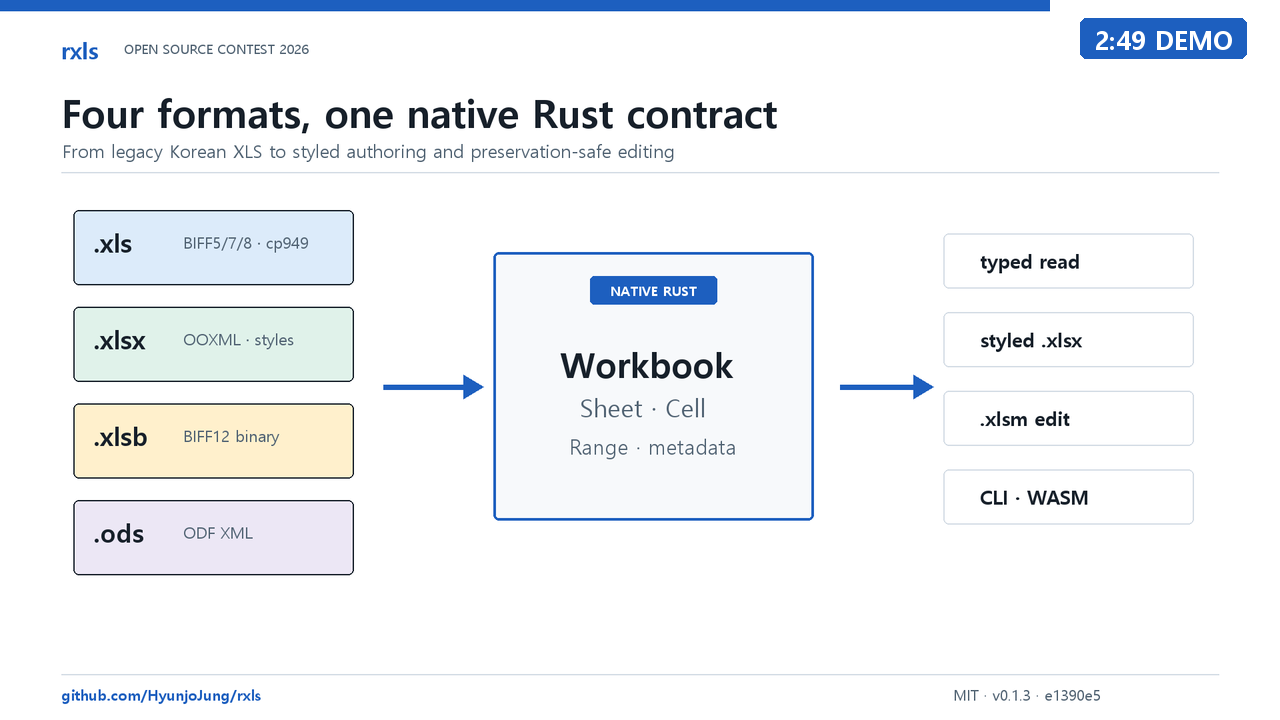
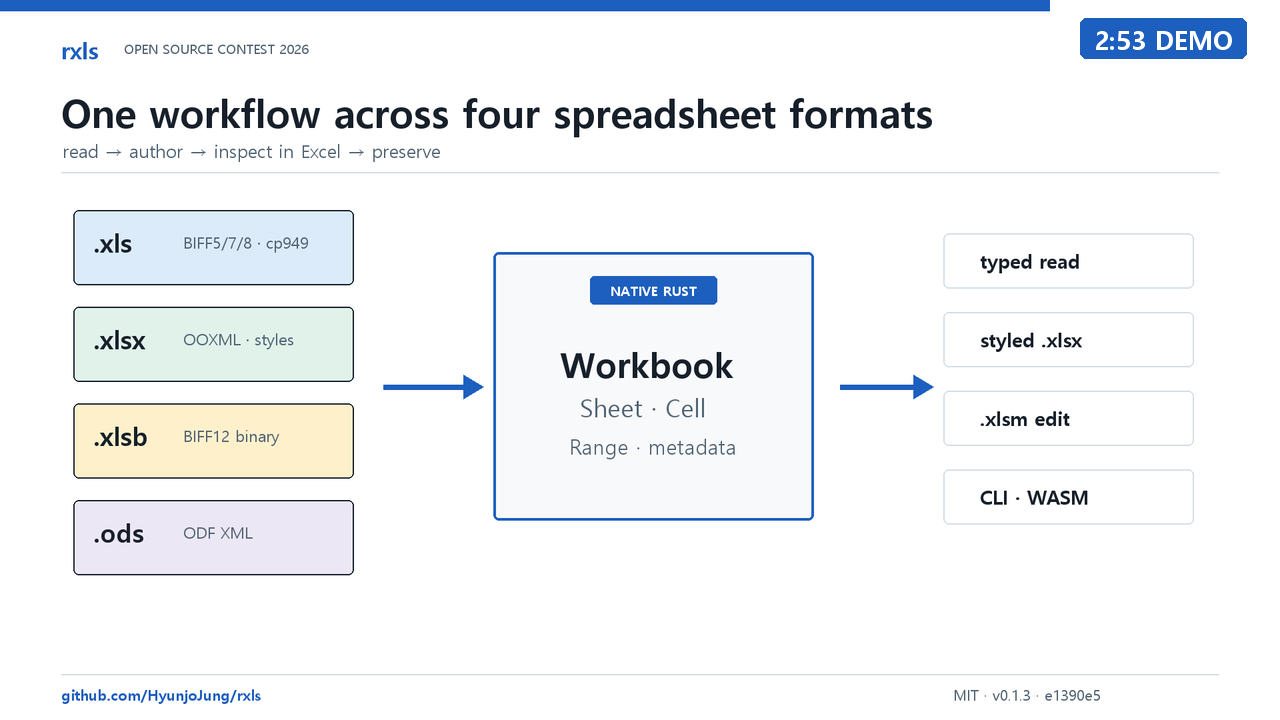
Publish bilingual contest demos

Changed region(s): [[0.0312, 0.1222, 0.75, 0.2444], [0.875, 0.0306, 0.9062, 0.0611]]

diff --git a/README.ko.md b/README.ko.md
@@ -52,17 +52,25 @@ revision에 연결된 [52개 asset 릴리스 증거 묶음](https://github.com/H
 
 ## 데모와 아키텍처
 
-[![rxls 2026 오픈소스 개발자대회 시연영상](.github/assets/rxls-demo-thumbnail.png)](https://youtu.be/_z8tUe4a1Ho)
+| 한국어 시연 | English demo |
+|---|---|
+| [![rxls 0.1.3 한국어 실제 시연](.github/assets/rxls-demo-thumbnail.png)](https://youtu.be/IzmFd_ARh1A) | [![rxls 0.1.3 English live demo](.github/assets/rxls-demo-thumbnail-en.png)](https://youtu.be/Z7tNhqMdCVU) |
+| [2분 54초 한국어 시연 보기](https://youtu.be/IzmFd_ARh1A) | [Watch the 2:53 English demo](https://youtu.be/Z7tNhqMdCVU) |
 
-[2분 49초 시연영상](https://youtu.be/_z8tUe4a1Ho)은 실제 `rxls` CLI로
-BIFF5/cp949 통합문서를 읽고, 네 형식을 공통 모델로 열고, 서식이 적용된 운영
-보고서를 만든 뒤 `openpyxl 3.1.5`로 다시 검증합니다. reader 명령은 정확한
-`v0.1.3` CLI인 [`e1390e5`](https://github.com/HyunjoJung/rxls/commit/e1390e5aa349fbf933c39bccda400a4a2ee1d814)를
+두 영상은 모두 정확한 공개 릴리스를 사용합니다. 실제 `rxls` CLI로
+BIFF5/cp949 통합문서를 읽고, 네 형식을 공통 모델로 열고, 6개 행과 서식이
+적용된 XLSX 보고서를 생성합니다. 이어 Excel 16에서 표, 필터, 캐시된 `SUM`
+수식, 데이터 검증, 차트를 직접 확인하고 `openpyxl 3.1.5`로 다시 검증합니다.
+reader 명령은 정확한 `v0.1.3` CLI인
+[`e1390e5`](https://github.com/HyunjoJung/rxls/commit/e1390e5aa349fbf933c39bccda400a4a2ee1d814)를
 사용하며, 추적된 report driver도 같은 checkout의 library를 호출합니다.
 
-[한국어 자막 파일](https://github.com/HyunjoJung/rxls/releases/download/oss-contest-2026-demo/rxls-2026-oss-contest-demo.ko.srt) ·
-[빌드 영수증](https://github.com/HyunjoJung/rxls/releases/download/oss-contest-2026-demo/video-verification.json) ·
-[독립 decode/audio/privacy QA](https://github.com/HyunjoJung/rxls/releases/download/oss-contest-2026-demo/video-qa.json) ·
+[한국어 자막](https://github.com/HyunjoJung/rxls/releases/download/oss-contest-2026-demo/rxls-2026-oss-contest-demo.ko.srt) ·
+[영어 자막](https://github.com/HyunjoJung/rxls/releases/download/oss-contest-2026-demo/rxls-2026-oss-contest-demo.en-US.srt) ·
+[한국어 빌드 영수증](https://github.com/HyunjoJung/rxls/releases/download/oss-contest-2026-demo/video-verification.json) ·
+[영어 빌드 영수증](https://github.com/HyunjoJung/rxls/releases/download/oss-contest-2026-demo/video-verification.en-US.json) ·
+[한국어 QA](https://github.com/HyunjoJung/rxls/releases/download/oss-contest-2026-demo/video-qa.json) ·
+[영어 QA](https://github.com/HyunjoJung/rxls/releases/download/oss-contest-2026-demo/video-qa.en-US.json) ·
 [미디어 릴리스](https://github.com/HyunjoJung/rxls/releases/tag/oss-contest-2026-demo)
 
 ![rxls 아키텍처: 신뢰할 수 없는 bytes를 bounded format parser와 하나의 typed model을 거쳐 public surface로 전달](.github/assets/rxls-architecture.png)

diff --git a/README.md b/README.md
@@ -48,18 +48,25 @@ bound to one exact revision.
 
 ## Demo and architecture
 
-[![rxls 2026 OSS contest demo](.github/assets/rxls-demo-thumbnail-en.png)](https://youtu.be/_z8tUe4a1Ho)
+| English demo | Korean demo |
+|---|---|
+| [![rxls 0.1.3 English live demo](.github/assets/rxls-demo-thumbnail-en.png)](https://youtu.be/Z7tNhqMdCVU) | [![rxls 0.1.3 Korean live demo](.github/assets/rxls-demo-thumbnail.png)](https://youtu.be/IzmFd_ARh1A) |
+| [Watch the 2:53 English demo](https://youtu.be/Z7tNhqMdCVU) | [Watch the 2:54 Korean demo](https://youtu.be/IzmFd_ARh1A) |
 
-The [2:49 exact-release demo](https://youtu.be/_z8tUe4a1Ho)
-runs the real `rxls` CLI against a BIFF5/cp949 workbook, opens all four formats
-through the common model, generates a styled operations report, and
-reopens that report with `openpyxl 3.1.5`. Reader commands use the exact `v0.1.3`
-CLI at [`e1390e5`](https://github.com/HyunjoJung/rxls/commit/e1390e5aa349fbf933c39bccda400a4a2ee1d814);
-the tracked report driver calls the library from that same checkout.
+Both exact-release demos run the real `rxls` CLI against a BIFF5/cp949
+workbook, open all four formats through the common model, generate a styled
+six-row XLSX report, inspect its native table, filter, cached `SUM` formula,
+validation, and chart in Excel 16, and reopen it with `openpyxl 3.1.5`. Reader
+commands use the exact `v0.1.3` CLI at
+[`e1390e5`](https://github.com/HyunjoJung/rxls/commit/e1390e5aa349fbf933c39bccda400a4a2ee1d814);
+the tracked report drivers call the library from that same checkout.
 
+[English captions](https://github.com/HyunjoJung/rxls/releases/download/oss-contest-2026-demo/rxls-2026-oss-contest-demo.en-US.srt) ·
 [Korean captions](https://github.com/HyunjoJung/rxls/releases/download/oss-contest-2026-demo/rxls-2026-oss-contest-demo.ko.srt) ·
-[build receipt](https://github.com/HyunjoJung/rxls/releases/download/oss-contest-2026-demo/video-verification.json) ·
-[independent decode/audio/privacy QA](https://github.com/HyunjoJung/rxls/releases/download/oss-contest-2026-demo/video-qa.json) ·
+[English build receipt](https://github.com/HyunjoJung/rxls/releases/download/oss-contest-2026-demo/video-verification.en-US.json) ·
+[Korean build receipt](https://github.com/HyunjoJung/rxls/releases/download/oss-contest-2026-demo/video-verification.json) ·
+[English QA](https://github.com/HyunjoJung/rxls/releases/download/oss-contest-2026-demo/video-qa.en-US.json) ·
+[Korean QA](https://github.com/HyunjoJung/rxls/releases/download/oss-contest-2026-demo/video-qa.json) ·
 [media release](https://github.com/HyunjoJung/rxls/releases/tag/oss-contest-2026-demo)
 
 ![rxls architecture: untrusted bytes through bounded format parsers into one typed model and public surfaces](.github/assets/rxls-architecture-en.png)
